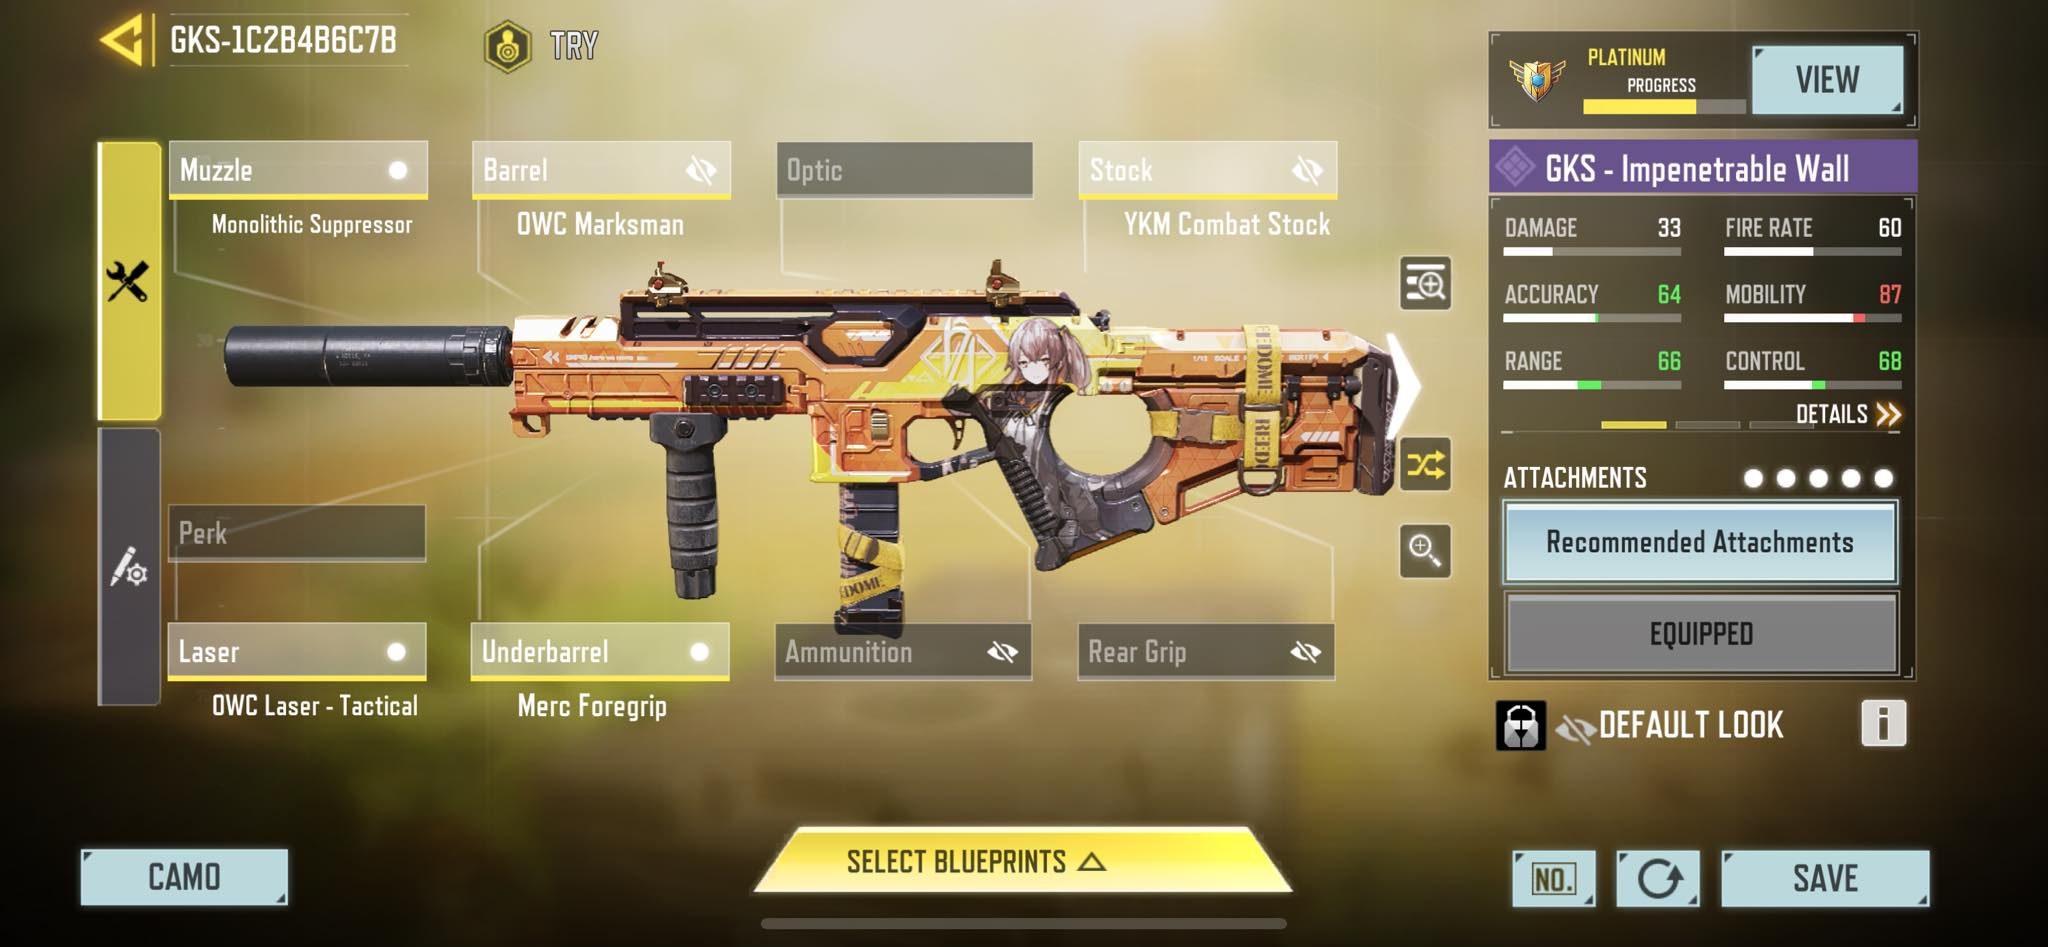
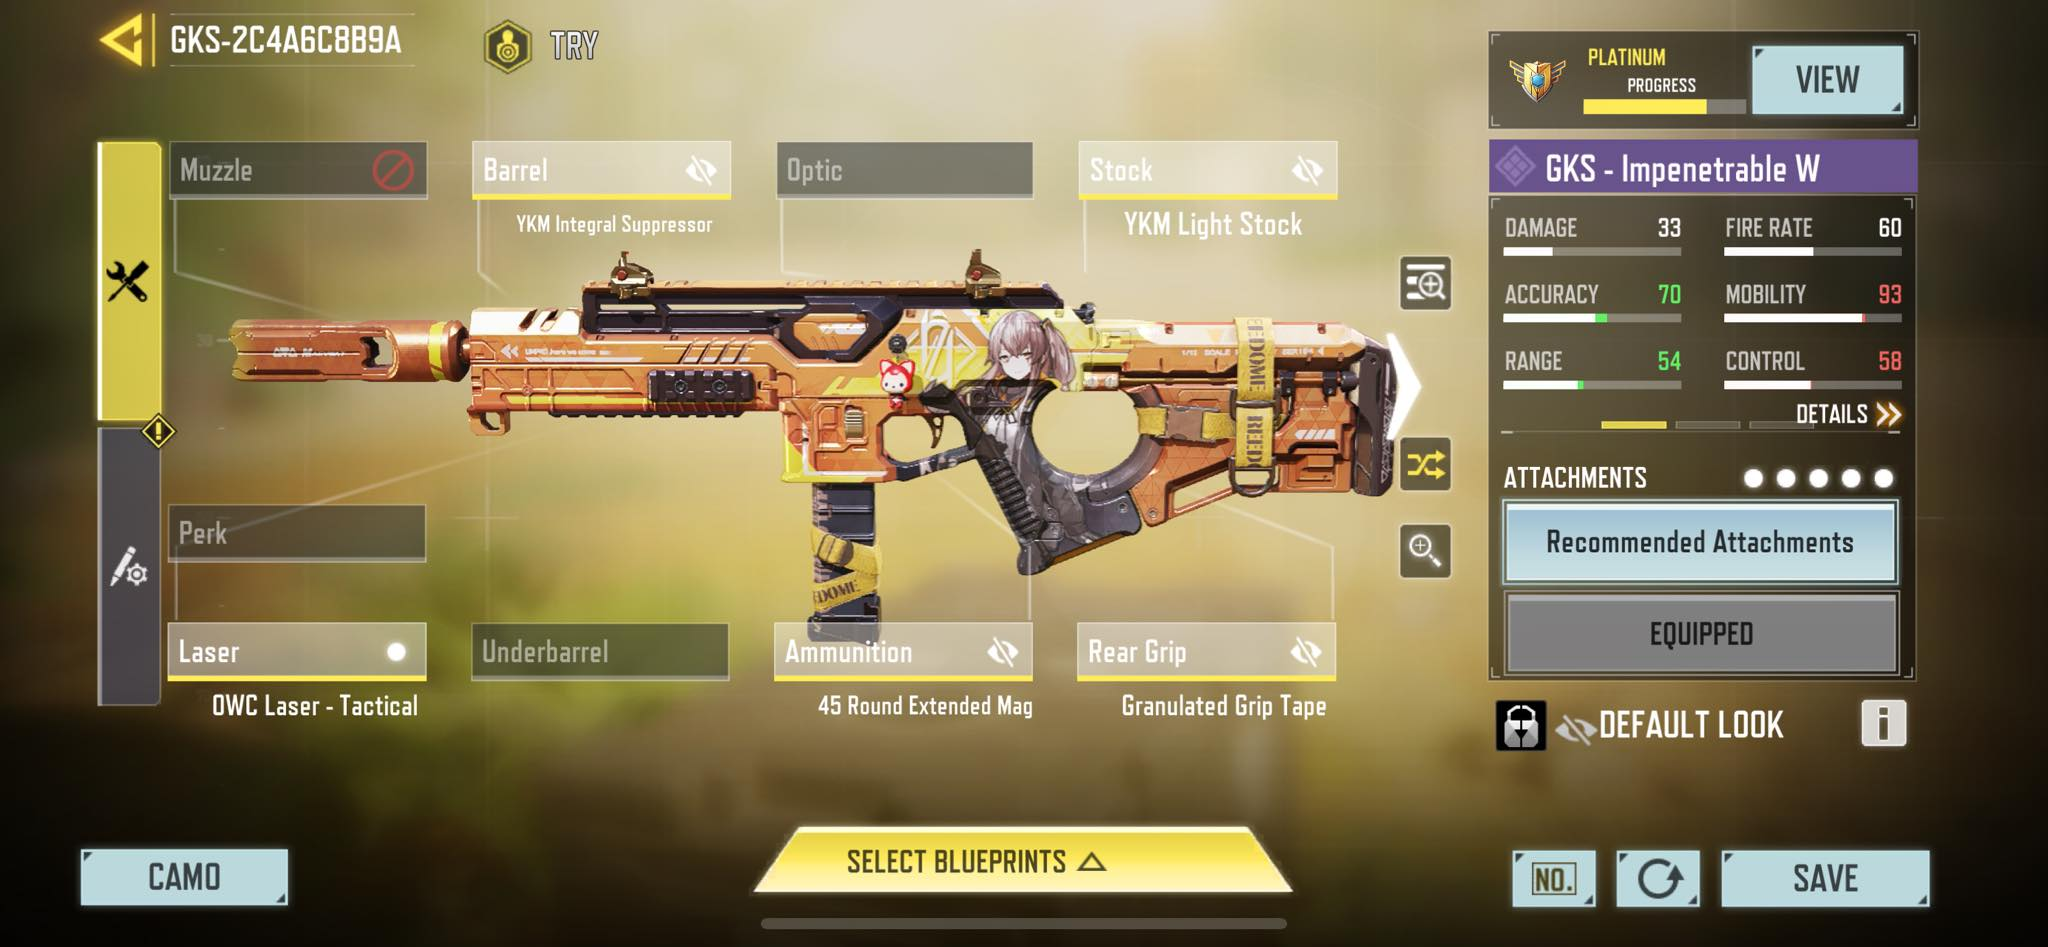
.

diff --git a/index.html b/index.html
@@ -139,6 +139,7 @@
               <li data-filter=".filter-lmg">Light Machine Gun</li>
               <li data-filter=".filter-assault">Assault</li>
               <li data-filter=".filter-smg">Sub Machine Gun</li>
+              <li data-filter=".filter-pistol">Pistols</li>
             </ul>
           </div>
         </div>
@@ -388,7 +389,7 @@
               <img src="assets/img/portfolio/groza.jpg" class="img-fluid" alt="">
               <div class="portfolio-info">
                 <h4>Groza</h4>
-                <p>Groza-1B2D4F8B9C</p>
+                <p>Groza-2C4A7F8E9F</p>
                 <div class="portfolio-links">
                   <a href="assets/img/portfolio/groza.jpg" data-gallery="portfolioGallery" class="portfolio-lightbox"></i></a>
                   
@@ -514,7 +515,7 @@
               <img src="assets/img/portfolio/dingo.jpg" class="img-fluid" alt="">
               <div class="portfolio-info">
                 <h4>Dingo</h4>
-                <p>Dingo-2C4D7F8C9C</p>
+                <p>Dingo-1C2C5E7F8A</p>
                 <div class="portfolio-links">
                   <a href="assets/img/portfolio/dingo.jpg" data-gallery="portfolioGallery" class="portfolio-lightbox"><i class="bx bx-plus"></i></a>
                   
@@ -542,7 +543,7 @@
               <img src="assets/img/portfolio/krig.jpg" class="img-fluid" alt="">
               <div class="portfolio-info">
                 <h4>Krig 6</h4>
-                <p>Krig 6-2B3A708B9A</p>
+                <p>Krig 6-1A2B3A4D9B</p>
                 <div class="portfolio-links">
                   <a href="assets/img/portfolio/krig.jpg" data-gallery="portfolioGallery" class="portfolio-lightbox"><i class="bx bx-plus"></i></a>
                   
@@ -780,7 +781,7 @@
               <img src="assets/img/portfolio/gks.jpg" class="img-fluid" alt="">
               <div class="portfolio-info">
                 <h4>GKS</h4>
-                <p>GKS-1C2B4B6C7B</p>
+                <p>GKS-2C4A6C8B9A</p>
                 <div class="portfolio-links">
                   <a href="assets/img/portfolio/gks.jpg" data-gallery="portfolioGallery" class="portfolio-lightbox"><i class="bx bx-plus"></i></a>
                   
@@ -1060,7 +1061,7 @@
               <img src="assets/img/portfolio/mg42.jpg" class="img-fluid" alt="">
               <div class="portfolio-info">
                 <h4>MG42</h4>
-                <p>MG42-1E2D4B5E7E</p>
+                <p>MG42-1E2D4C5E7E</p>
                 <div class="portfolio-links">
                   <a href="assets/img/portfolio/mg42.jpg" data-gallery="portfolioGallery" class="portfolio-lightbox"><i class="bx bx-plus"></i></a>
                   
